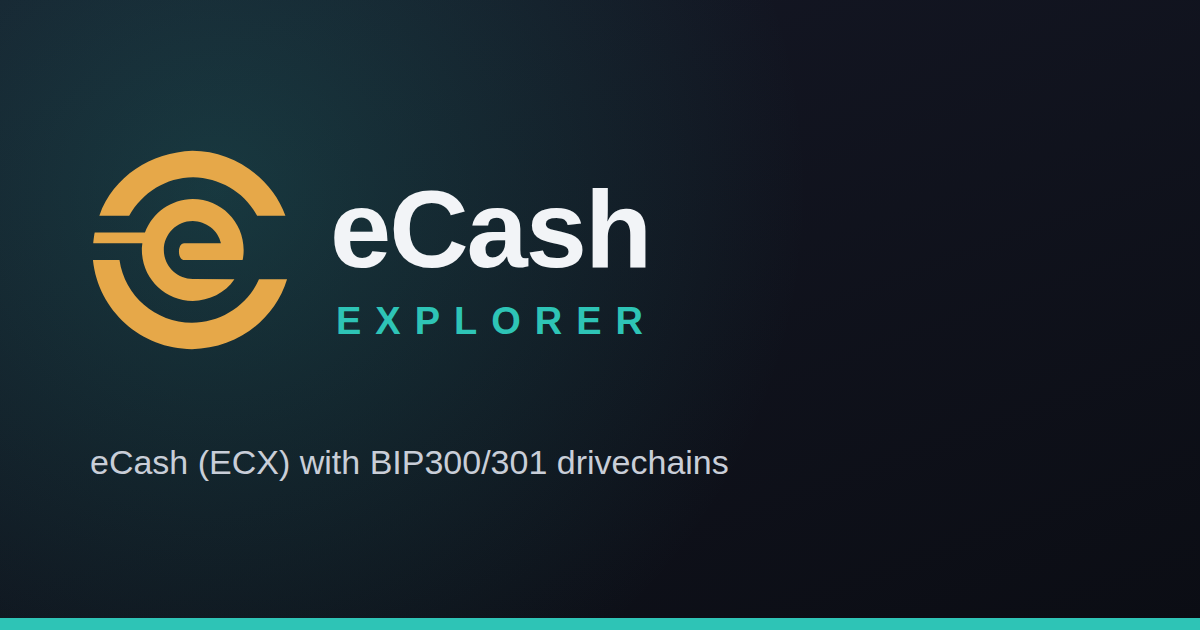
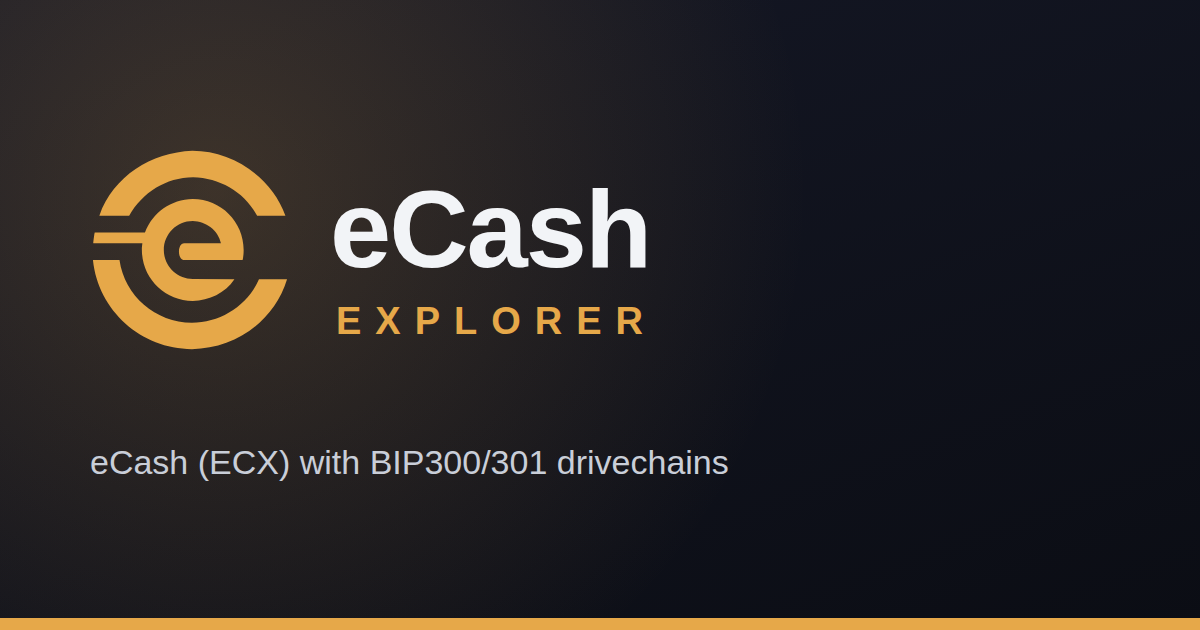
eCash accent: the brand gold #E6A849, as its mark
The eCash profile's colour (links, titles, block cubes, badges) and the
accent fallbacks, and eCash's link preview.

Claude-Session: https://claude.ai/code/session_016ScJL4vwUZDmPaBe3oCFtx

Changed region(s): [[0.0, 0.0, 0.555, 0.6333], [0.0, 0.9651, 1.0, 1.0]]

diff --git a/frontend/src/app/chain/l2/full/l2-widget.component.ts b/frontend/src/app/chain/l2/full/l2-widget.component.ts
@@ -37,7 +37,7 @@ interface PegEvent {
     .cell.on { background: var(--ec); }
     .cell.contested { background: #ff6b6b; }
     .kv { width: 100%; font-size: 0.85rem; margin: 0; td { padding: 3px 4px; vertical-align: middle; } td:first-child { color: var(--transparent-fg); } }
-    .share { display: flex; height: 10px; border-radius: 5px; overflow: hidden; background: #ffffff10; margin: 4px 0 10px; .fill { background: var(--chain-accent, #2ec4b6); } }
+    .share { display: flex; height: 10px; border-radius: 5px; overflow: hidden; background: #ffffff10; margin: 4px 0 10px; .fill { background: var(--chain-accent, #E6A849); } }
     .g-cells { flex-wrap: nowrap; }
     .cell { max-width: none; }
     .big-row { flex-wrap: wrap; }
@@ -165,7 +165,7 @@ export class L2WidgetComponent implements OnChanges {
   @Input() kind: Kind = 'chain';
 
   profile = PROFILE;
-  ecashColor = PROFILES['ecash']?.color ?? '#2ec4b6';
+  ecashColor = PROFILES['ecash']?.color ?? '#E6A849';
   data$: Observable<{ s: L2Summary | null; blocks: L2BlockSummary[] }>;
   peg$: Observable<PegEvent[]>;
   shortId = shortId;

diff --git a/frontend/src/app/chain/components/block-marks/block-marks.component.ts b/frontend/src/app/chain/components/block-marks/block-marks.component.ts
@@ -74,7 +74,7 @@ import { L2ApiService } from '@app/chain/l2/l2-api.service';
   `,
   styles: [`
     :host { display: block; }
-    .miner-badge { background: color-mix(in srgb, var(--chain-accent, #2ec4b6) 25%, transparent); color: var(--fg); font-size: 0.85em; }
+    .miner-badge { background: color-mix(in srgb, var(--chain-accent, #E6A849) 25%, transparent); color: var(--fg); font-size: 0.85em; }
     .stripe { display: flex; gap: 1px; height: 4px; margin: 4px 8px 0; border-radius: 2px; overflow: hidden; }
     .band { flex: 1; }
     .marks { display: flex; flex-direction: column; align-items: center; gap: 2px; font-size: 11px; line-height: 1.1; }
@@ -106,7 +106,7 @@ export class ChainBlockMarksComponent implements OnChanges, OnDestroy {
   l2 = PROFILE.kind === 'l2';
   l2Mark: L2Mark | null | undefined;
   l2Title = '';
-  ecashColor = PROFILES['ecash']?.color ?? '#2ec4b6';
+  ecashColor = PROFILES['ecash']?.color ?? '#E6A849';
   mainBase$: Observable<string | null>;
 
   constructor(private injector: Injector, private cd: ChangeDetectorRef) {}

diff --git a/frontend/src/app/components/transactions-list/transactions-list.component.html b/frontend/src/app/components/transactions-list/transactions-list.component.html
@@ -135,7 +135,7 @@
                         </div>
                         <!-- eCash Explorer: a sidechain input that spends a deposit from eCash -->
                         @if (l2 && l2Deposit(tx, vindex); as dep) {
-                          <div class="chain-label small-label" style="--cl: var(--chain-accent, #2ec4b6)" [ngbTooltip]="'Credited by eCash transaction ' + dep + ':' + vin.vout" placement="bottom">
+                          <div class="chain-label small-label" style="--cl: var(--chain-accent, #E6A849)" [ngbTooltip]="'Credited by eCash transaction ' + dep + ':' + vin.vout" placement="bottom">
                             <span class="cl-tag">deposit</span>
                             from <app-sidechain-label chain="ecash" name="eCash"></app-sidechain-label>
                             @if (l2MainBase) {<a [href]="l2MainBase + '/tx/' + dep" class="mono">{{ dep | slice:0:8 }}…{{ dep | slice:-8 }}</a>} @else {<span class="mono">{{ dep | slice:0:8 }}…{{ dep | slice:-8 }}</span>}

diff --git a/frontend/src/app/chain/pages/about.page.ts b/frontend/src/app/chain/pages/about.page.ts
@@ -21,9 +21,9 @@ import { l2FeatureNav } from '@app/chain/l2/l2-nav';
     p, ul { max-width: 820px; }
     .nets { display: grid; grid-template-columns: repeat(auto-fill, minmax(220px, 1fr)); gap: 10px; }
     .net { display: block; padding: 12px 14px; border-radius: 8px; background: var(--box-bg); color: var(--fg); text-decoration: none;
-      border: 1px solid color-mix(in srgb, var(--chain-accent, #2ec4b6) 35%, transparent); }
-    a.net:hover { border-color: var(--chain-accent, #2ec4b6); text-decoration: none; }
-    .net.here { border-color: var(--chain-accent, #2ec4b6); }
+      border: 1px solid color-mix(in srgb, var(--chain-accent, #E6A849) 35%, transparent); }
+    a.net:hover { border-color: var(--chain-accent, #E6A849); text-decoration: none; }
+    .net.here { border-color: var(--chain-accent, #E6A849); }
     .net b { display: block; } .net small { color: var(--transparent-fg); }
   `],
   template: `

diff --git a/frontend/src/app/chain/l2/l2-common.ts b/frontend/src/app/chain/l2/l2-common.ts
@@ -301,7 +301,7 @@ export function humanize(k: string): string {
   styles: [`
     .pill { display: inline-block; font-size: 0.7rem; padding: 0 7px; border-radius: 10px; background: #ffffff14; margin-right: 4px; white-space: nowrap; }
     .pill.w { background: color-mix(in srgb, #f5b83d 30%, transparent); }
-    .pill.a { background: color-mix(in srgb, var(--chain-accent, #2ec4b6) 30%, transparent); }
+    .pill.a { background: color-mix(in srgb, var(--chain-accent, #E6A849) 30%, transparent); }
     .muted { color: var(--transparent-fg); font-size: 0.85em; }
     .mono { font-family: monospace; font-size: 0.8rem; word-break: break-all; }
   `],

diff --git a/frontend/src/app/chain/l2/full/l2-panel.scss b/frontend/src/app/chain/l2/full/l2-panel.scss
@@ -15,6 +15,6 @@
 .pill { display: inline-block; font-size: 0.72rem; padding: 0 7px; border-radius: 10px; background: #ffffff14; white-space: nowrap; }
 .pill.ok { background: color-mix(in srgb, #3bd16f 30%, transparent); }
 .pill.warn { background: color-mix(in srgb, #ff6b6b 30%, transparent); }
-.pill.accent { background: color-mix(in srgb, var(--chain-accent, #2ec4b6) 30%, transparent); }
+.pill.accent { background: color-mix(in srgb, var(--chain-accent, #E6A849) 30%, transparent); }
 .pos { color: #3bd16f; } .neg { color: #ff6b6b; }
 section + section { margin-top: 14px; border-top: 1px solid var(--secondary); padding-top: 10px; }

diff --git a/frontend/src/app/chain/modules/ecash/index.ts b/frontend/src/app/chain/modules/ecash/index.ts
@@ -9,7 +9,7 @@ import { ChainFrontendModule } from '@app/chain/chain-module';
 const ecash: ChainFrontendModule = {
   profile: {
     id: 'ecash', kind: 'l1', name: 'eCash', tagline: 'eCash (ECX) with BIP300/301 drivechains', unit: 'ECX', subunit: 'sats',
-    slot: null, mainchain: true, color: '#2ec4b6',
+    slot: null, mainchain: true, color: '#E6A849', // eCash's brand gold, as its mark (chain/marks.ts)
     // a hexagon crossed by a bar
     mark: ['M16 3.5l10.8 6.25v12.5L16 28.5 5.2 22.25V9.75z', 'M11 16h10'],
     blockWeightUnits: 4000000,

diff --git a/frontend/src/app/components/master-page/master-page.component.scss b/frontend/src/app/components/master-page/master-page.component.scss
@@ -351,5 +351,5 @@ main {
   text-transform: uppercase;
   color: #ffd166;
   border: 1px solid color-mix(in srgb, #ffd166 55%, transparent);
-  &.mainnet { color: var(--chain-accent, #2ec4b6); border-color: color-mix(in srgb, var(--chain-accent, #2ec4b6) 55%, transparent); }
+  &.mainnet { color: var(--chain-accent, #E6A849); border-color: color-mix(in srgb, var(--chain-accent, #E6A849) 55%, transparent); }
 }

diff --git a/frontend/src/app/components/transactions-list/transactions-list.component.scss b/frontend/src/app/components/transactions-list/transactions-list.component.scss
@@ -423,7 +423,7 @@ h2 {
 }
 // eCash Explorer: drivechain output labels
 .chain-label {
-  --cl: #2ec4b6;
+  --cl: #E6A849;
   display: inline-flex; align-items: center; gap: 5px; max-width: 100%;
   color: var(--fg); font-size: 0.85em; line-height: 1.4;
   white-space: nowrap; overflow: hidden; text-overflow: ellipsis;

diff --git a/chains/previews.py b/chains/previews.py
@@ -8,7 +8,7 @@ Marks and colours as in frontend/src/app/chain/modules/<id>/index.ts and chain/m
 import os, subprocess, tempfile, glob
 
 CHAINS = {
-    'ecash': ('eCash', '#2ec4b6', 'eCash (ECX) with BIP300/301 drivechains', ['M16 3.5l10.8 6.25v12.5L16 28.5 5.2 22.25V9.75z', 'M11 16h10'], []),
+    'ecash': ('eCash', '#E6A849', 'eCash (ECX) with BIP300/301 drivechains', ['M16 3.5l10.8 6.25v12.5L16 28.5 5.2 22.25V9.75z', 'M11 16h10'], []),
     'thunder': ('Thunder', '#a585ff', 'A payments sidechain of eCash', ['M18.5 3.5 9 18h6.5L13.5 28.5 23 14h-6.5z'], []),
     'bitnames': ('BitNames', '#5aa6ff', 'A naming sidechain of eCash', ['M9 5h15a2 2 0 0 1 2 2v18a2 2 0 0 1-2 2H9a4 4 0 0 1-4-4V9a4 4 0 0 1 4-4z', 'M9 5v22', 'M13 12h8', 'M13 17h6'], []),
     'bitassets': ('BitAssets', '#f5b83d', 'An asset sidechain of eCash', ['M6 9c0-2.2 4.5-4 10-4s10 1.8 10 4-4.5 4-10 4S6 11.2 6 9z', 'M6 9v14c0 2.2 4.5 4 10 4s10-1.8 10-4V9', 'M6 16c0 2.2 4.5 4 10 4s10-1.8 10-4'], []),
